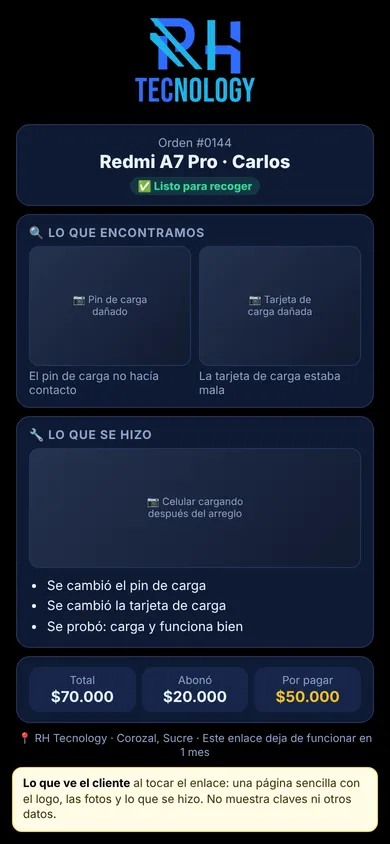
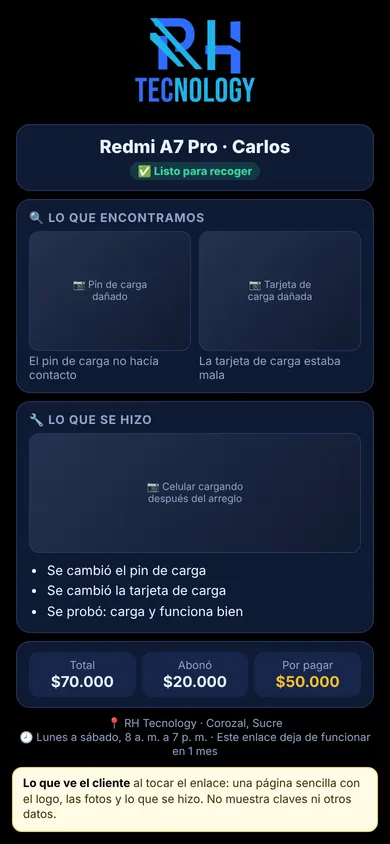
Plan final de Servicio técnico: orden interna, horario, condiciones y extras
Claude-Session: https://claude.ai/code/session_01DEMzrWSaudLimiiRZi8k6E

diff --git a/docs/servicio-tecnico/maqueta.html b/docs/servicio-tecnico/maqueta.html
@@ -188,7 +188,7 @@
 <div class="hoja" style="top:40px">
  <h3>✅ Listo para entregar</h3>
  <p style="margin:0 0 8px;font-size:12.5px;color:var(--suave)">Se le envía este mensaje al cliente por el WhatsApp del negocio:</p>
- <div class="wa-msg">Hola Carlos 👋, le escribe <b>RH Tecnology</b> 📱<br><br>Su <b>Redmi A7 Pro</b> ya está <b>listo</b> ✅ y puede pasar a recogerlo.<br><br><b>Lo que se le hizo:</b><br>• Se cambió el pin de carga<br>• Se cambió la tarjeta de carga<br>• Se probó: carga y funciona bien<br><br><b>Total:</b> $70.000 · <b>Abonó:</b> $20.000<br><b>Por pagar:</b> $50.000<br><br>📷 <b>Fotos de lo que encontramos y lo que se hizo:</b><br><span style="color:#7dd3fc;text-decoration:underline">rh.link/o/0144-k7f2</span><br><br>Orden #0144.<br>📍 RH Tecnology, Corozal</div>
+ <div class="wa-msg">Hola Carlos 👋, le escribe <b>RH Tecnology</b> 📱<br><br>Su <b>Redmi A7 Pro</b> ya está <b>listo</b> ✅ y puede pasar a recogerlo.<br><br><b>Lo que se le hizo:</b><br>• Se cambió el pin de carga<br>• Se cambió la tarjeta de carga<br>• Se probó: carga y funciona bien<br><br><b>Total:</b> $70.000 · <b>Abonó:</b> $20.000<br><b>Por pagar:</b> $50.000<br><br>📷 <b>Fotos de lo que encontramos y lo que se hizo:</b><br><span style="color:#7dd3fc;text-decoration:underline">rh.link/o/0144-k7f2</span><br><br>📍 RH Tecnology · Corozal, Sucre<br>🕗 Lunes a sábado, 8 a. m. a 7 p. m.</div>
  <div class="fotos" style="margin-top:8px;justify-content:center"><div class="foto" style="width:52px;height:52px">Pin<br>viejo</div><div class="foto" style="width:52px;height:52px">Tarjeta<br>dañada</div><div class="foto" style="width:52px;height:52px">Ya<br>carga</div><div class="foto" style="width:52px;height:52px;outline:2px solid var(--celeste)">✓ 3 de 4</div></div>
  <div style="text-align:center;font-size:11.5px;color:var(--suave);margin-top:4px">Eliges qué fotos ve el cliente</div>
  <div class="grande" style="background:#25d366;color:#032b12">Enviar mensaje con fotos y marcar listo</div>
@@ -305,7 +305,7 @@
 </section><section class="pantalla" id="p13" style="background:#000">
 <div style="text-align:center;padding:18px 16px 6px"><img src="logo.webp" alt="" style="width:120px"></div>
 <div class="cuerpo">
- <div class="tarjeta" style="text-align:center"><div style="font-size:12px;color:var(--suave)">Orden #0144</div><div style="font-size:18px;font-weight:800;margin:2px 0">Redmi A7 Pro · Carlos</div><span class="pill verde">✅ Listo para recoger</span></div>
+ <div class="tarjeta" style="text-align:center"><div style="font-size:18px;font-weight:800;margin:2px 0">Redmi A7 Pro · Carlos</div><span class="pill verde">✅ Listo para recoger</span></div>
  <div class="tarjeta"><h4>🔍 Lo que encontramos</h4>
   <div style="display:grid;grid-template-columns:1fr 1fr;gap:8px">
    <div><div class="foto" style="width:100%;height:120px">📷 Pin de carga<br>dañado</div><div style="font-size:11.5px;color:var(--suave);margin-top:3px">El pin de carga no hacía contacto</div></div>
@@ -315,7 +315,7 @@
   <div class="foto" style="width:100%;height:120px">📷 Celular cargando<br>después del arreglo</div>
   <ul style="margin:8px 0 0;padding-left:18px;font-size:13px;line-height:1.55"><li>Se cambió el pin de carga</li><li>Se cambió la tarjeta de carga</li><li>Se probó: carga y funciona bien</li></ul></div>
  <div class="tarjeta"><div class="plata"><div>Total<b>$70.000</b></div><div>Abonó<b>$20.000</b></div><div>Por pagar<b style="color:var(--aviso)">$50.000</b></div></div></div>
- <div style="text-align:center;font-size:11px;color:var(--suave);margin-top:8px">📍 RH Tecnology · Corozal, Sucre · Este enlace deja de funcionar en 1 mes</div>
+ <div style="text-align:center;font-size:11px;color:var(--suave);margin-top:8px">📍 RH Tecnology · Corozal, Sucre<br>🕗 Lunes a sábado, 8 a. m. a 7 p. m. · Este enlace deja de funcionar en 1 mes</div>
 </div>
 <div class="nota"><b>Lo que ve el cliente</b> al tocar el enlace: una página sencilla con el logo, las fotos y lo que se hizo. No muestra claves ni otros datos.</div>
 </section></body></html>

diff --git a/docs/servicio-tecnico/PLAN.md b/docs/servicio-tecnico/PLAN.md
@@ -77,3 +77,24 @@ teléfono del negocio.
 - Fotos en Supabase Storage (reducidas ~200 KB), acceso solo para usuarios permitidos.
 - Entregados: sin permiso de borrar ni editar (triggers/RLS), igual que el historial de actividad.
 - Aviso de datos personales (Ley 1581 de 2012) en el recibo.
+
+
+## Decisiones finales (antes de construir)
+- **Número de orden**: serial automático **interno**. El cliente **nunca** lo ve (ni en WhatsApp, ni en
+  el recibo, ni en la página del cliente). Para el cliente, el enlace usa el código secreto.
+- **Horario** (va en los mensajes y en la página del cliente): lunes a sábado, 8 a. m. a 7 p. m.
+- **Condiciones del taller** (recibo y página del cliente): "Pasados 30 días no se aceptan reclamos ni se
+  responde por el equipo" (texto final por confirmar con el dueño).
+- **Se agregan**:
+  1. **Devolver sin reparar** (no tenía arreglo / no aceptó el precio / se lo lleva así): motivo y lo que
+     se cobra (p. ej. revisión) → en Entregados como "No reparado".
+  2. **WhatsApp al recibir** el equipo (comprobante: equipo, abono, condiciones).
+  3. **Notas en Entregados** (solo agregar; nada se edita ni se borra).
+  4. **Caja del día**: totales por método (efectivo, QR, transferencia).
+  5. **Copia de seguridad**: botón "Descargar copia de todo".
+- **WhatsApp**: el negocio ya está vinculado en el celular de Andrés. El día de la construcción se prueba
+  que abra WhatsApp Business (Android se puede forzar; iPhone se prueba).
+- **Orden de construcción**: 1) BD + inicio · 2) recibir + 3 pestañas · 3) ficha/historial/precio ·
+  4) bloqueo (PIN, patrón, varias claves) · 5) fotos 1 mes + WhatsApp + página del cliente ·
+  6) cobrar/entregar, entregados, caja, copia · 7) recibir por voz y foto (IA).
+- Inicio de construcción: hoy después de las 4 p. m.
